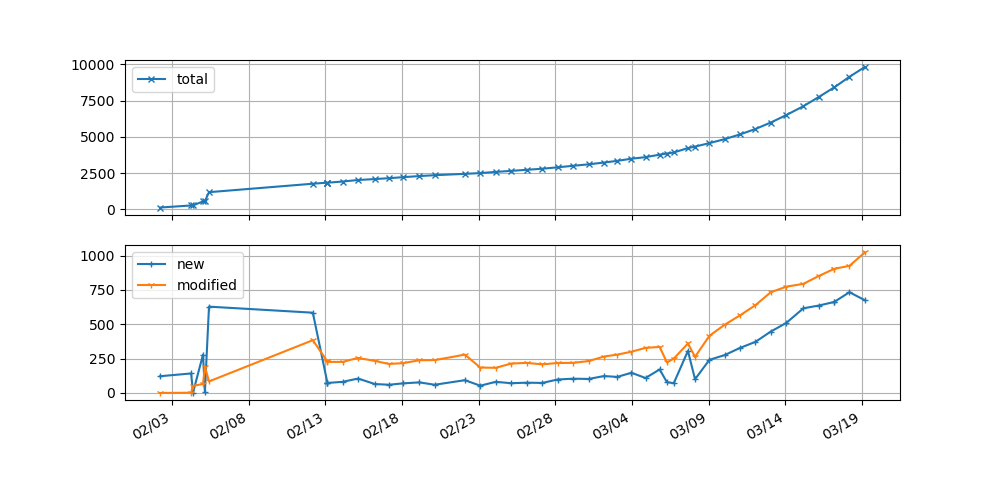
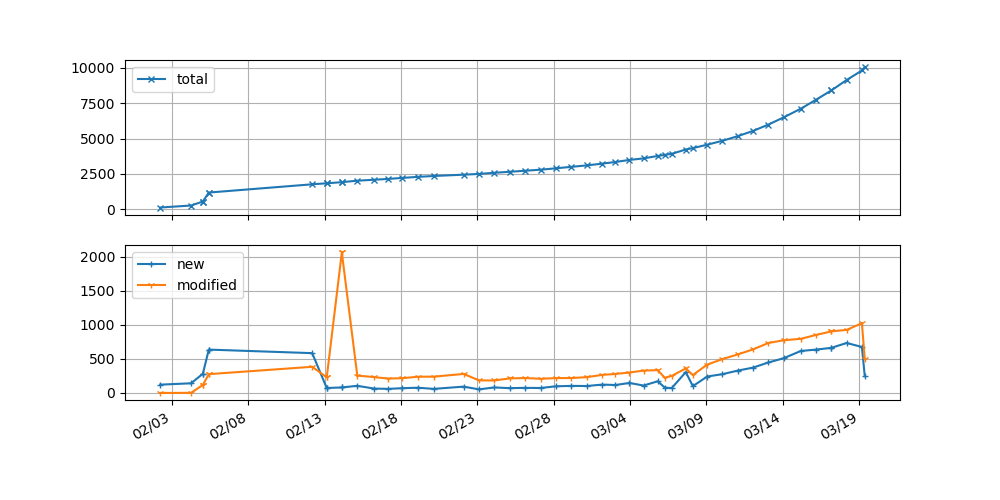
Refine: remove some noises

diff --git a/trend_plot.py b/trend_plot.py
@@ -36,15 +36,25 @@ x = [datetime.strptime(d, 'Date:   %a %b %d %H:%M:%S %Y %z') for d in date_list[
 y0 = [i[0] for i in new_modified_list]
 y1 = [i[1] for i in new_modified_list]
 y2 = [i[2] for i in new_modified_list]
-y2[9] = y2[10] # noise
 
-def RemoveNoise(y):
+def mergeToNext(i):
+    x[i] = x[i + 1]
+    y0[i] = y0[i + 1]
+    y1[i + 1] += y1[i]
+    y1[i] = y1[i + 1]
+    y2[i] = y2[i + 1]
+# noise
+mergeToNext(9) # y2[9] = 1834 = y0[8]
+mergeToNext(2) # y1[2:4] = [2, 279]
+mergeToNext(4) # y1[4:6] = [8, 628]
+
+def removeNoise(y):
     for index, value in enumerate(y):
         if value == 0 and index != 0:
             y[index] = y[index - 1]
             x[index] = x[index - 1]
-RemoveNoise(y1)
-RemoveNoise(y2)
+removeNoise(y1)
+removeNoise(y2)
 
 fig, ax_list = plt.subplots(2, figsize=(10,5))
 
